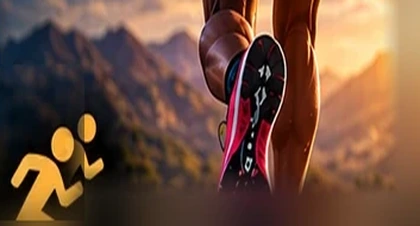
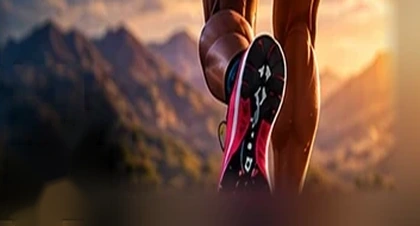
Add files via upload

Changed region(s): [[0.0, 0.4956, 0.2476, 1.0]]

diff --git a/index.html b/index.html
@@ -135,7 +135,7 @@ html:has(#fitclimb.visible){scroll-snap-type:y proximity;scroll-padding-top:12px
  background-position:center center!important;
 }
 #landing .refreshed-grid .module.move-card{background-image:url("home-images/move.webp?v=18j")!important}
-#landing .refreshed-grid .module[data-module="run"]{background-image:url("home-images/run.webp?v=18j")!important}
+#landing .refreshed-grid .module[data-module="run"]{background-image:url("home-images/run.webp?v=18k")!important}
 #landing .refreshed-grid .module.move-card>img,
 #landing .refreshed-grid .module[data-module="run"]>img{display:none!important}
 #landing .refreshed-grid .module.move-card::before,

diff --git a/sw.js b/sw.js
@@ -1,5 +1,5 @@
 
-const CACHE = 'trainlab-v2.94-move-run-inset-removed-18j';
+const CACHE = 'trainlab-v2.82-run-icon-cleanup';
 
 const ASSETS = [
   './',
